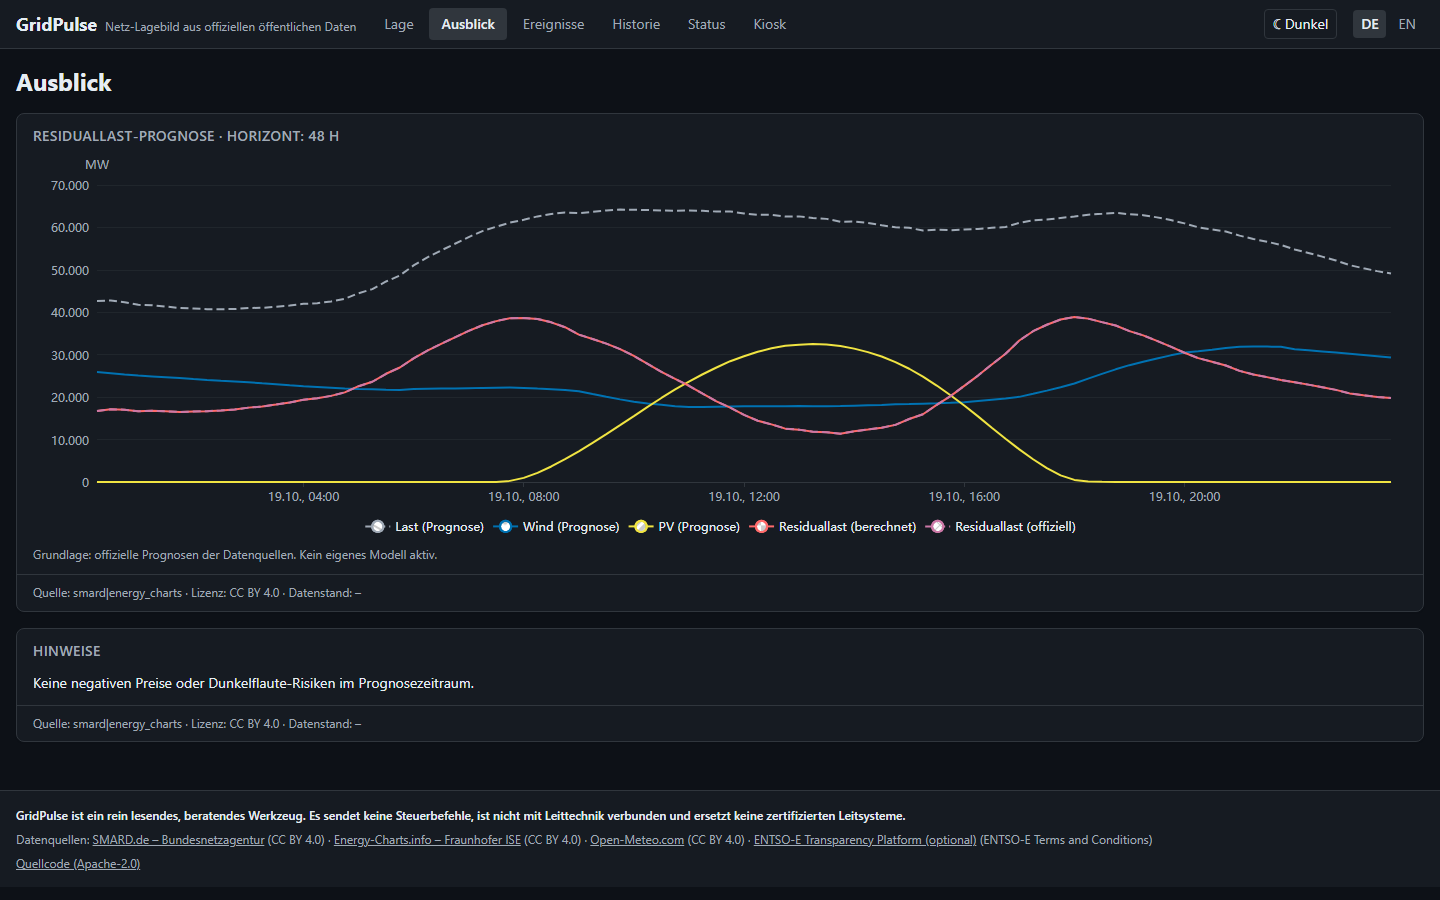
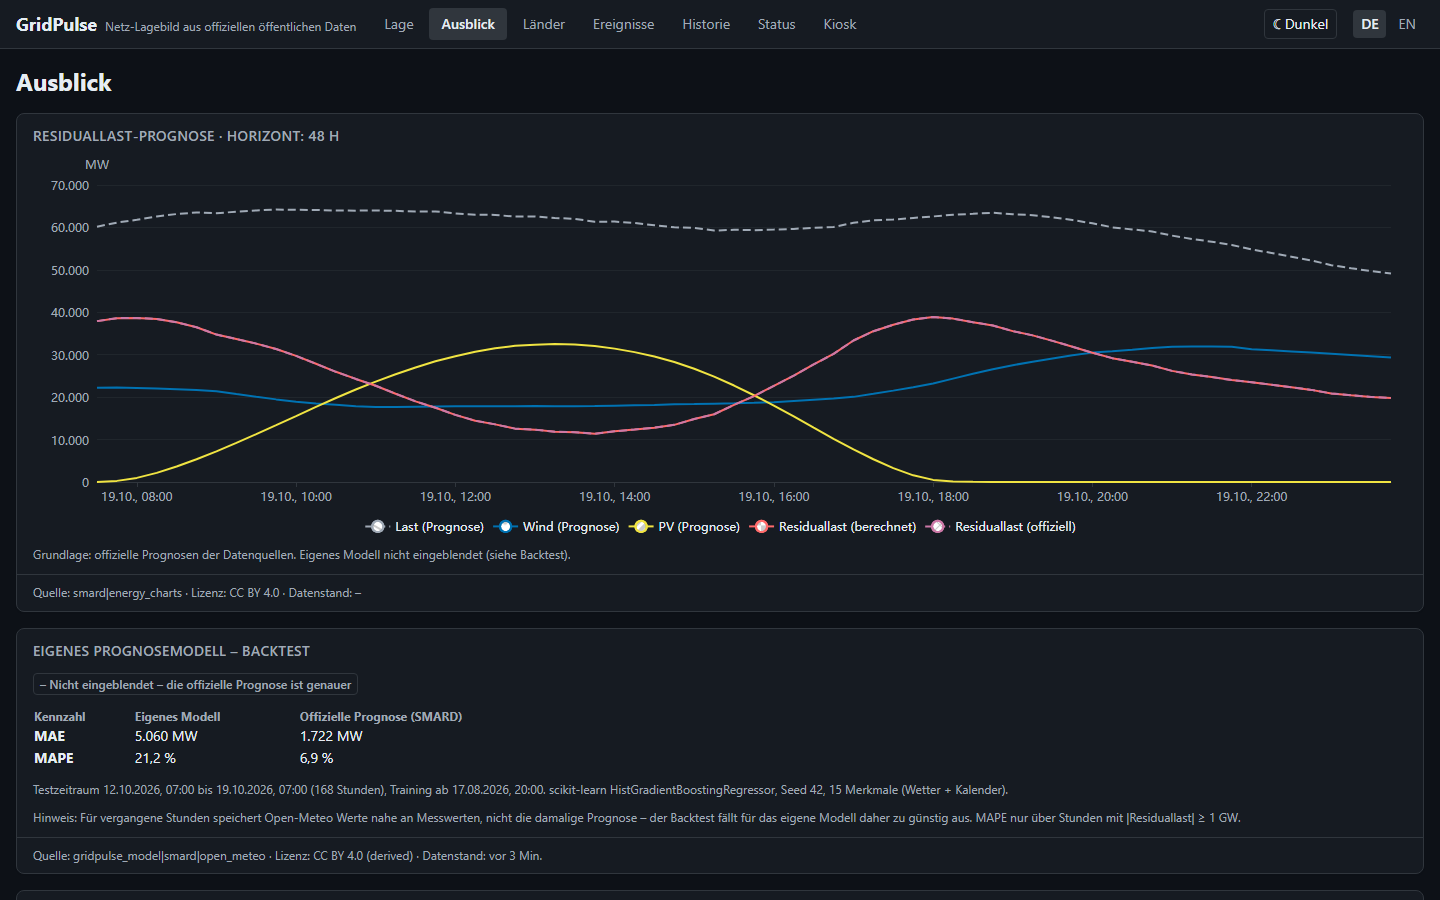
fix(web): keep the backtest status badge at content width
Also write the training report with LF line endings.

diff --git a/frontend/src/components/views/OutlookView.tsx b/frontend/src/components/views/OutlookView.tsx
@@ -39,7 +39,7 @@ export function BacktestTile({
     <Tile title={t("backtest")} loading={loading} provenance={provenance}>
       {model ? (
         <div className="flex flex-col gap-3 text-sm">
-          <Badge tone={model.active ? "ok" : "neutral"}>
+          <Badge tone={model.active ? "ok" : "neutral"} className="self-start">
             {model.active ? `✓ ${t("active")}` : `– ${t("inactive")}`}
           </Badge>
           <table className="w-full max-w-xl text-left">

diff --git a/scripts/train_forecast.py b/scripts/train_forecast.py
@@ -132,7 +132,7 @@ async def main() -> int:
 
     report = _report(run, as_of, config)
     if args.report:
-        args.report.write_text(json.dumps(report, indent=2) + "\n", encoding="utf-8")
+        args.report.write_text(json.dumps(report, indent=2) + "\n", encoding="utf-8", newline="\n")
     print(json.dumps(report, indent=2))
     if run is None:
         return 1
